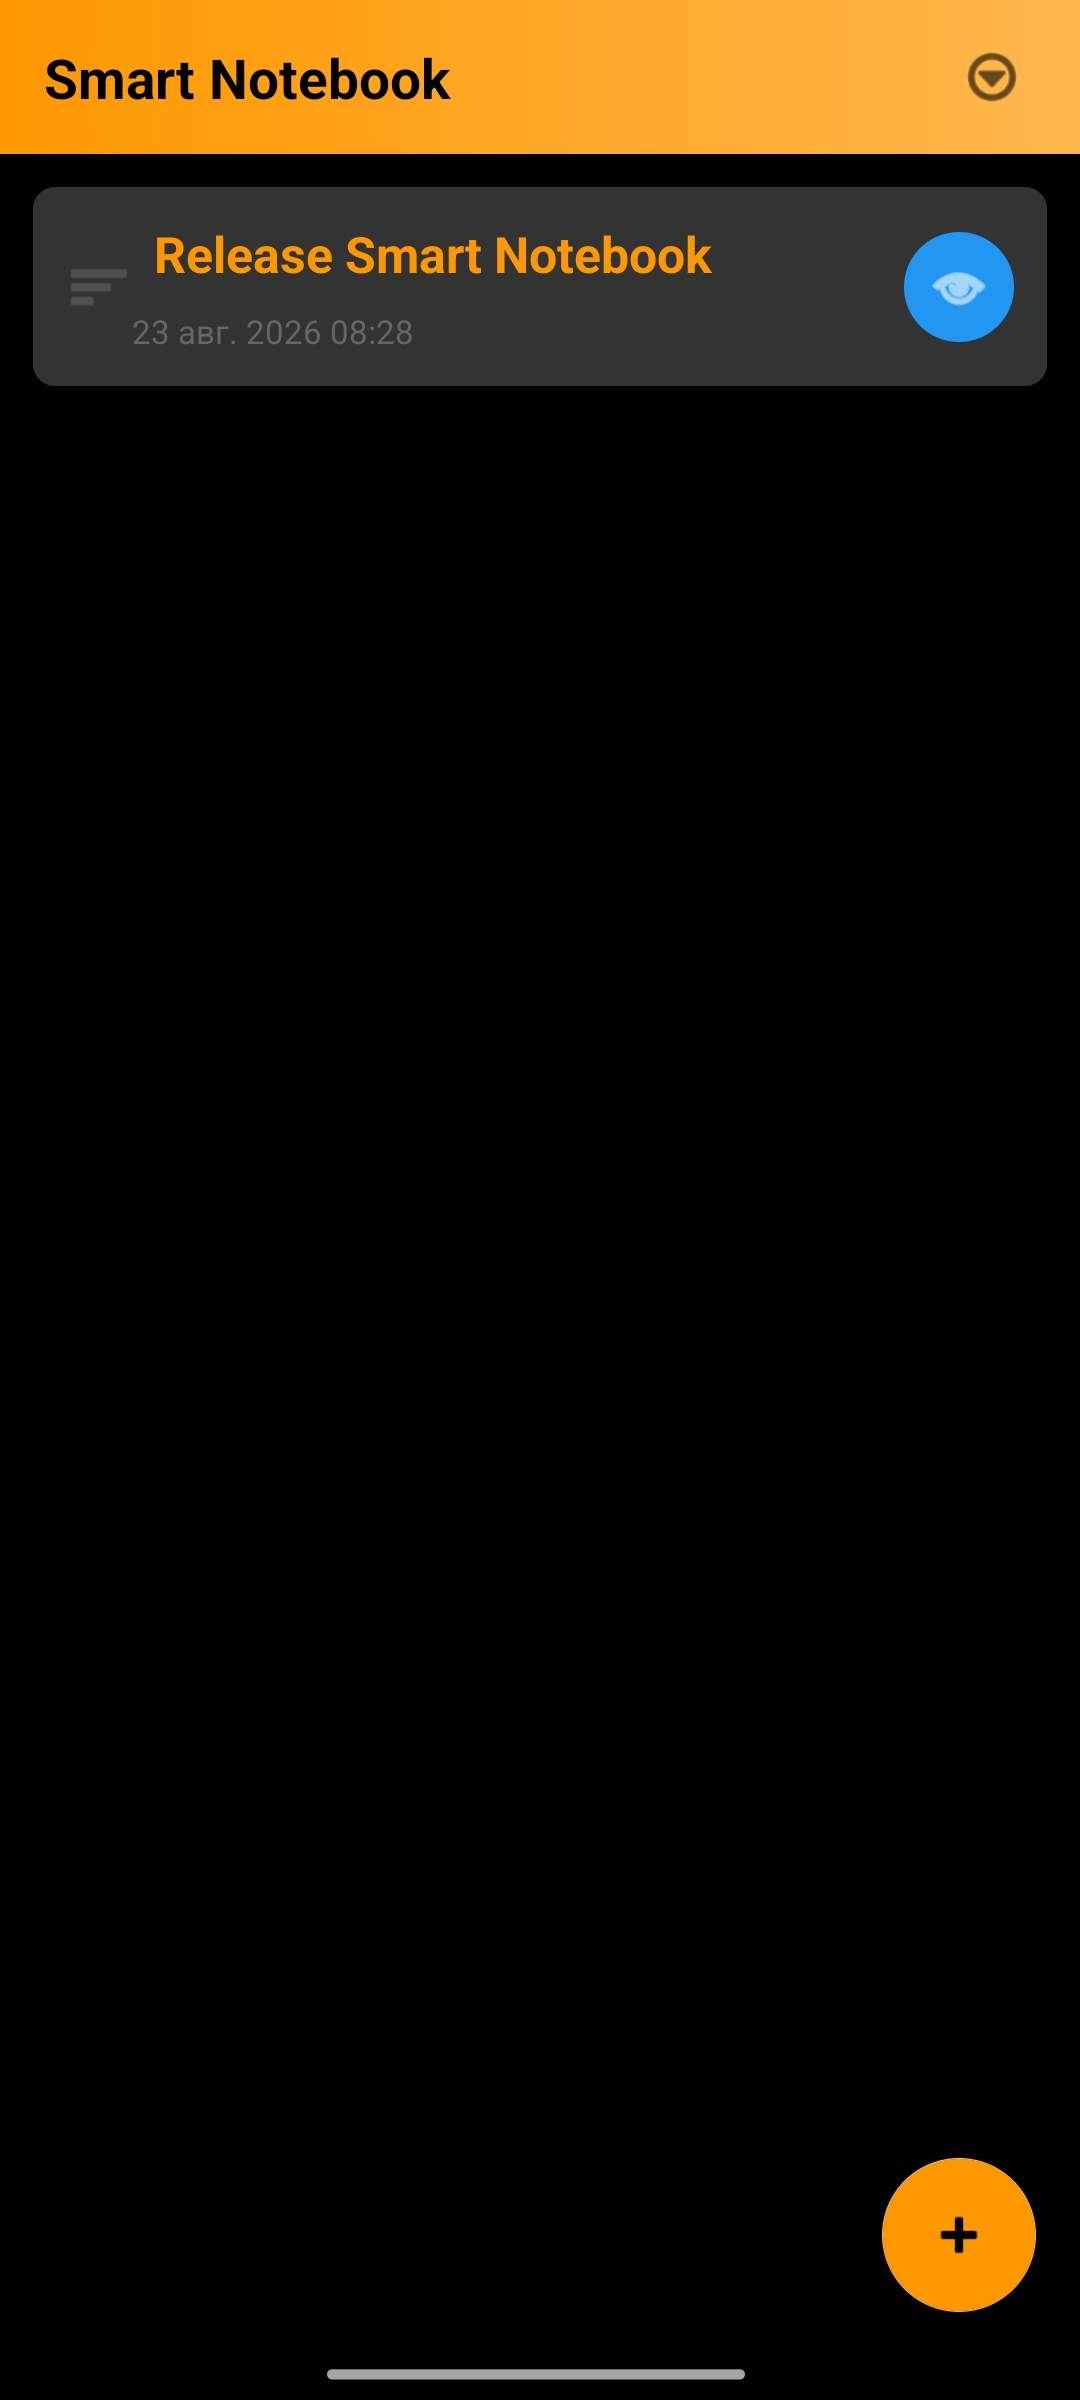
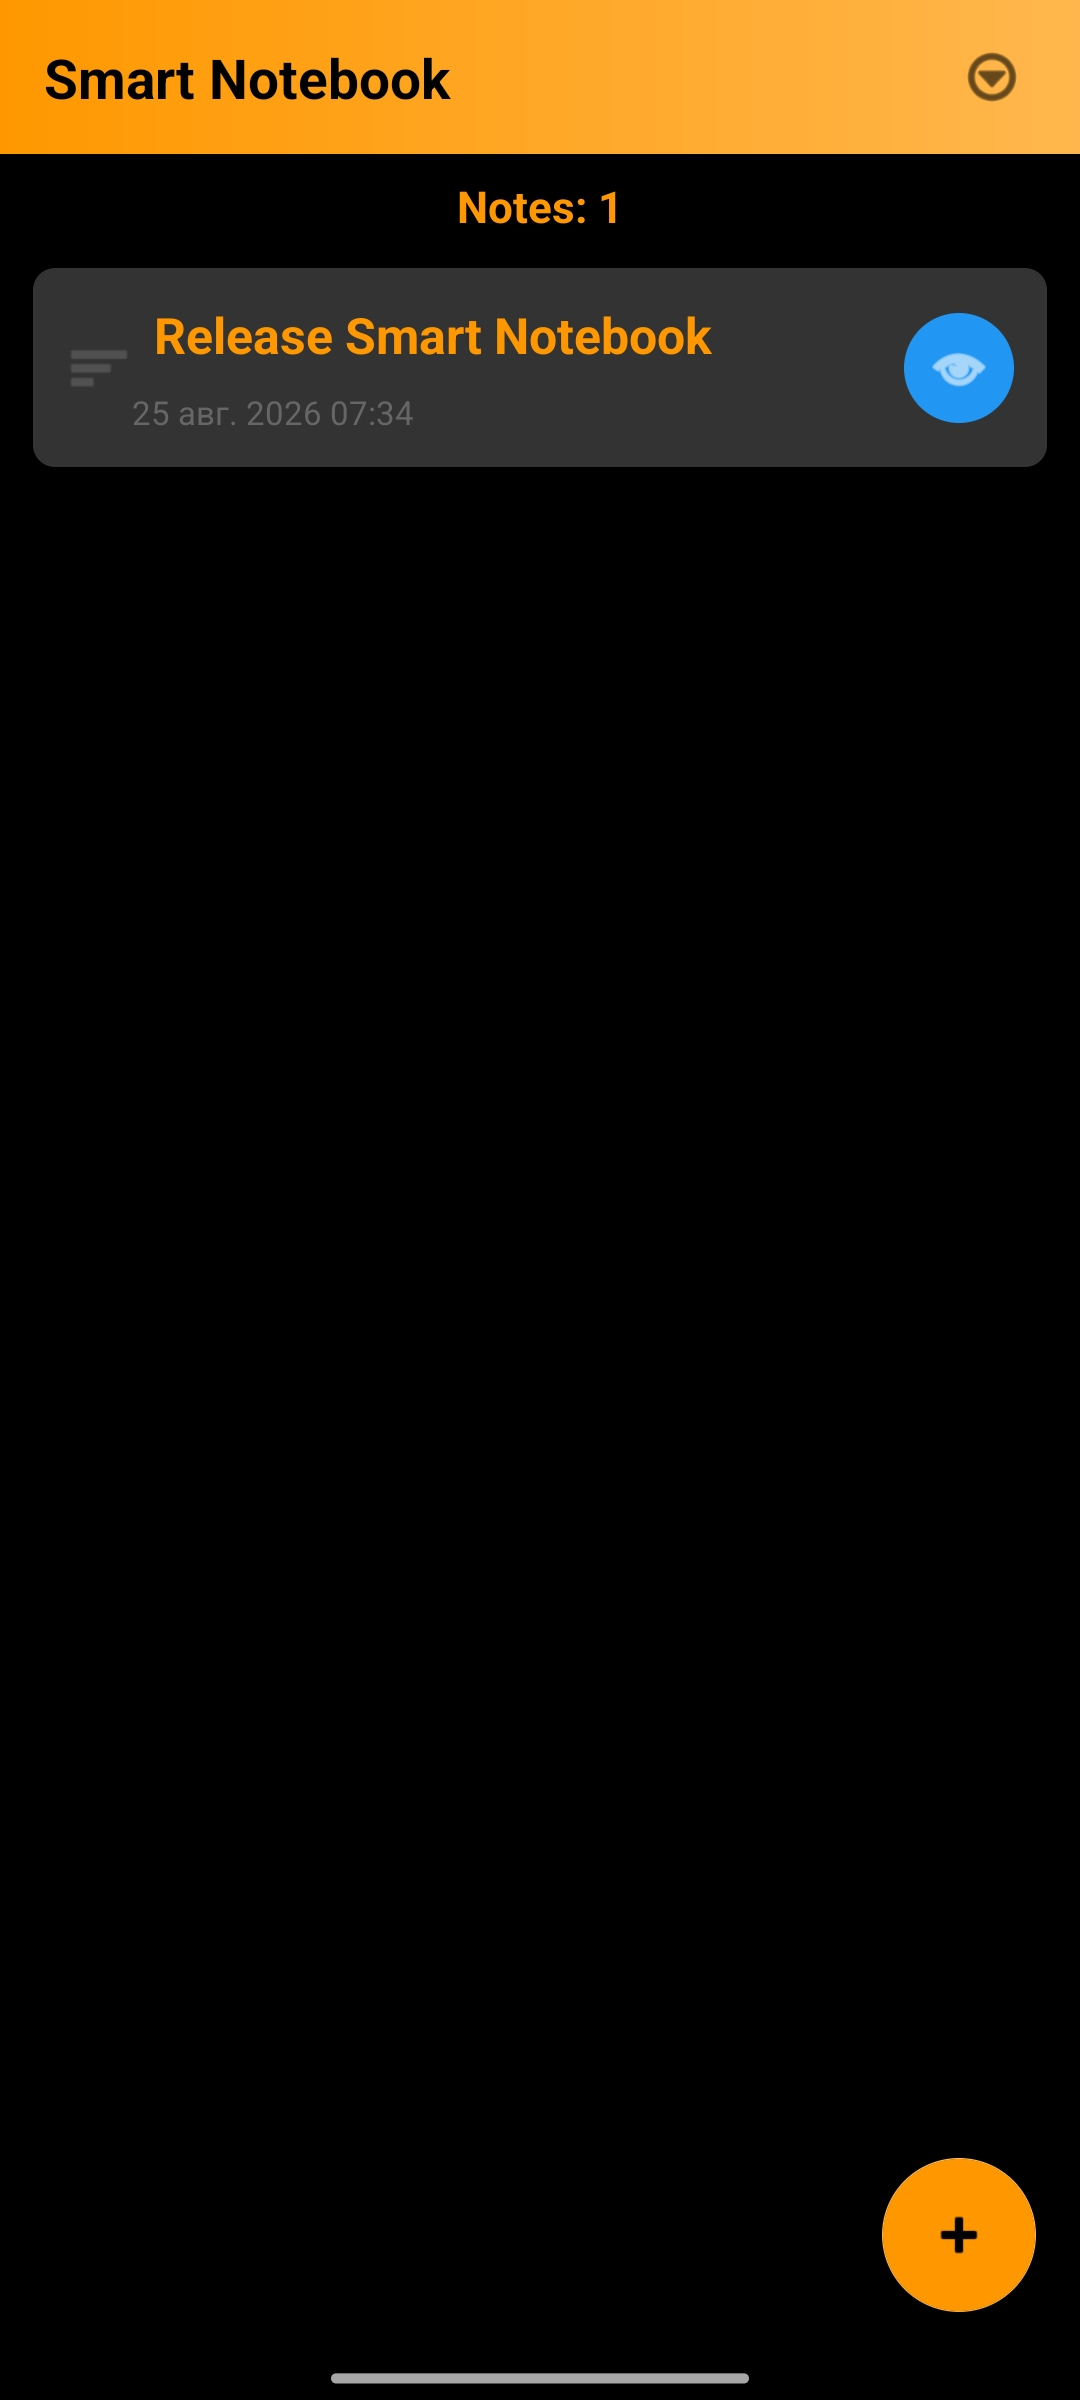
docs: Update README.md

Changed region(s): [[0.0306, 0.0625, 0.9778, 0.2188], [0.3056, 0.9688, 0.6722, 1.0]]

diff --git a/README.md b/README.md
@@ -24,7 +24,7 @@ A powerful, feature-rich note-taking application for Android built with Kotlin.
 
 ---
 
-![Smart Notebook](https://github.com/aixandrolab/smart-notebook/blob/master/data/images/main_screen.jpeg)
+![Smart Notebook](https://github.com/aixandrolab/smart-notebook/blob/master/data/images/main_screen.jpg)
 
 ---
 
